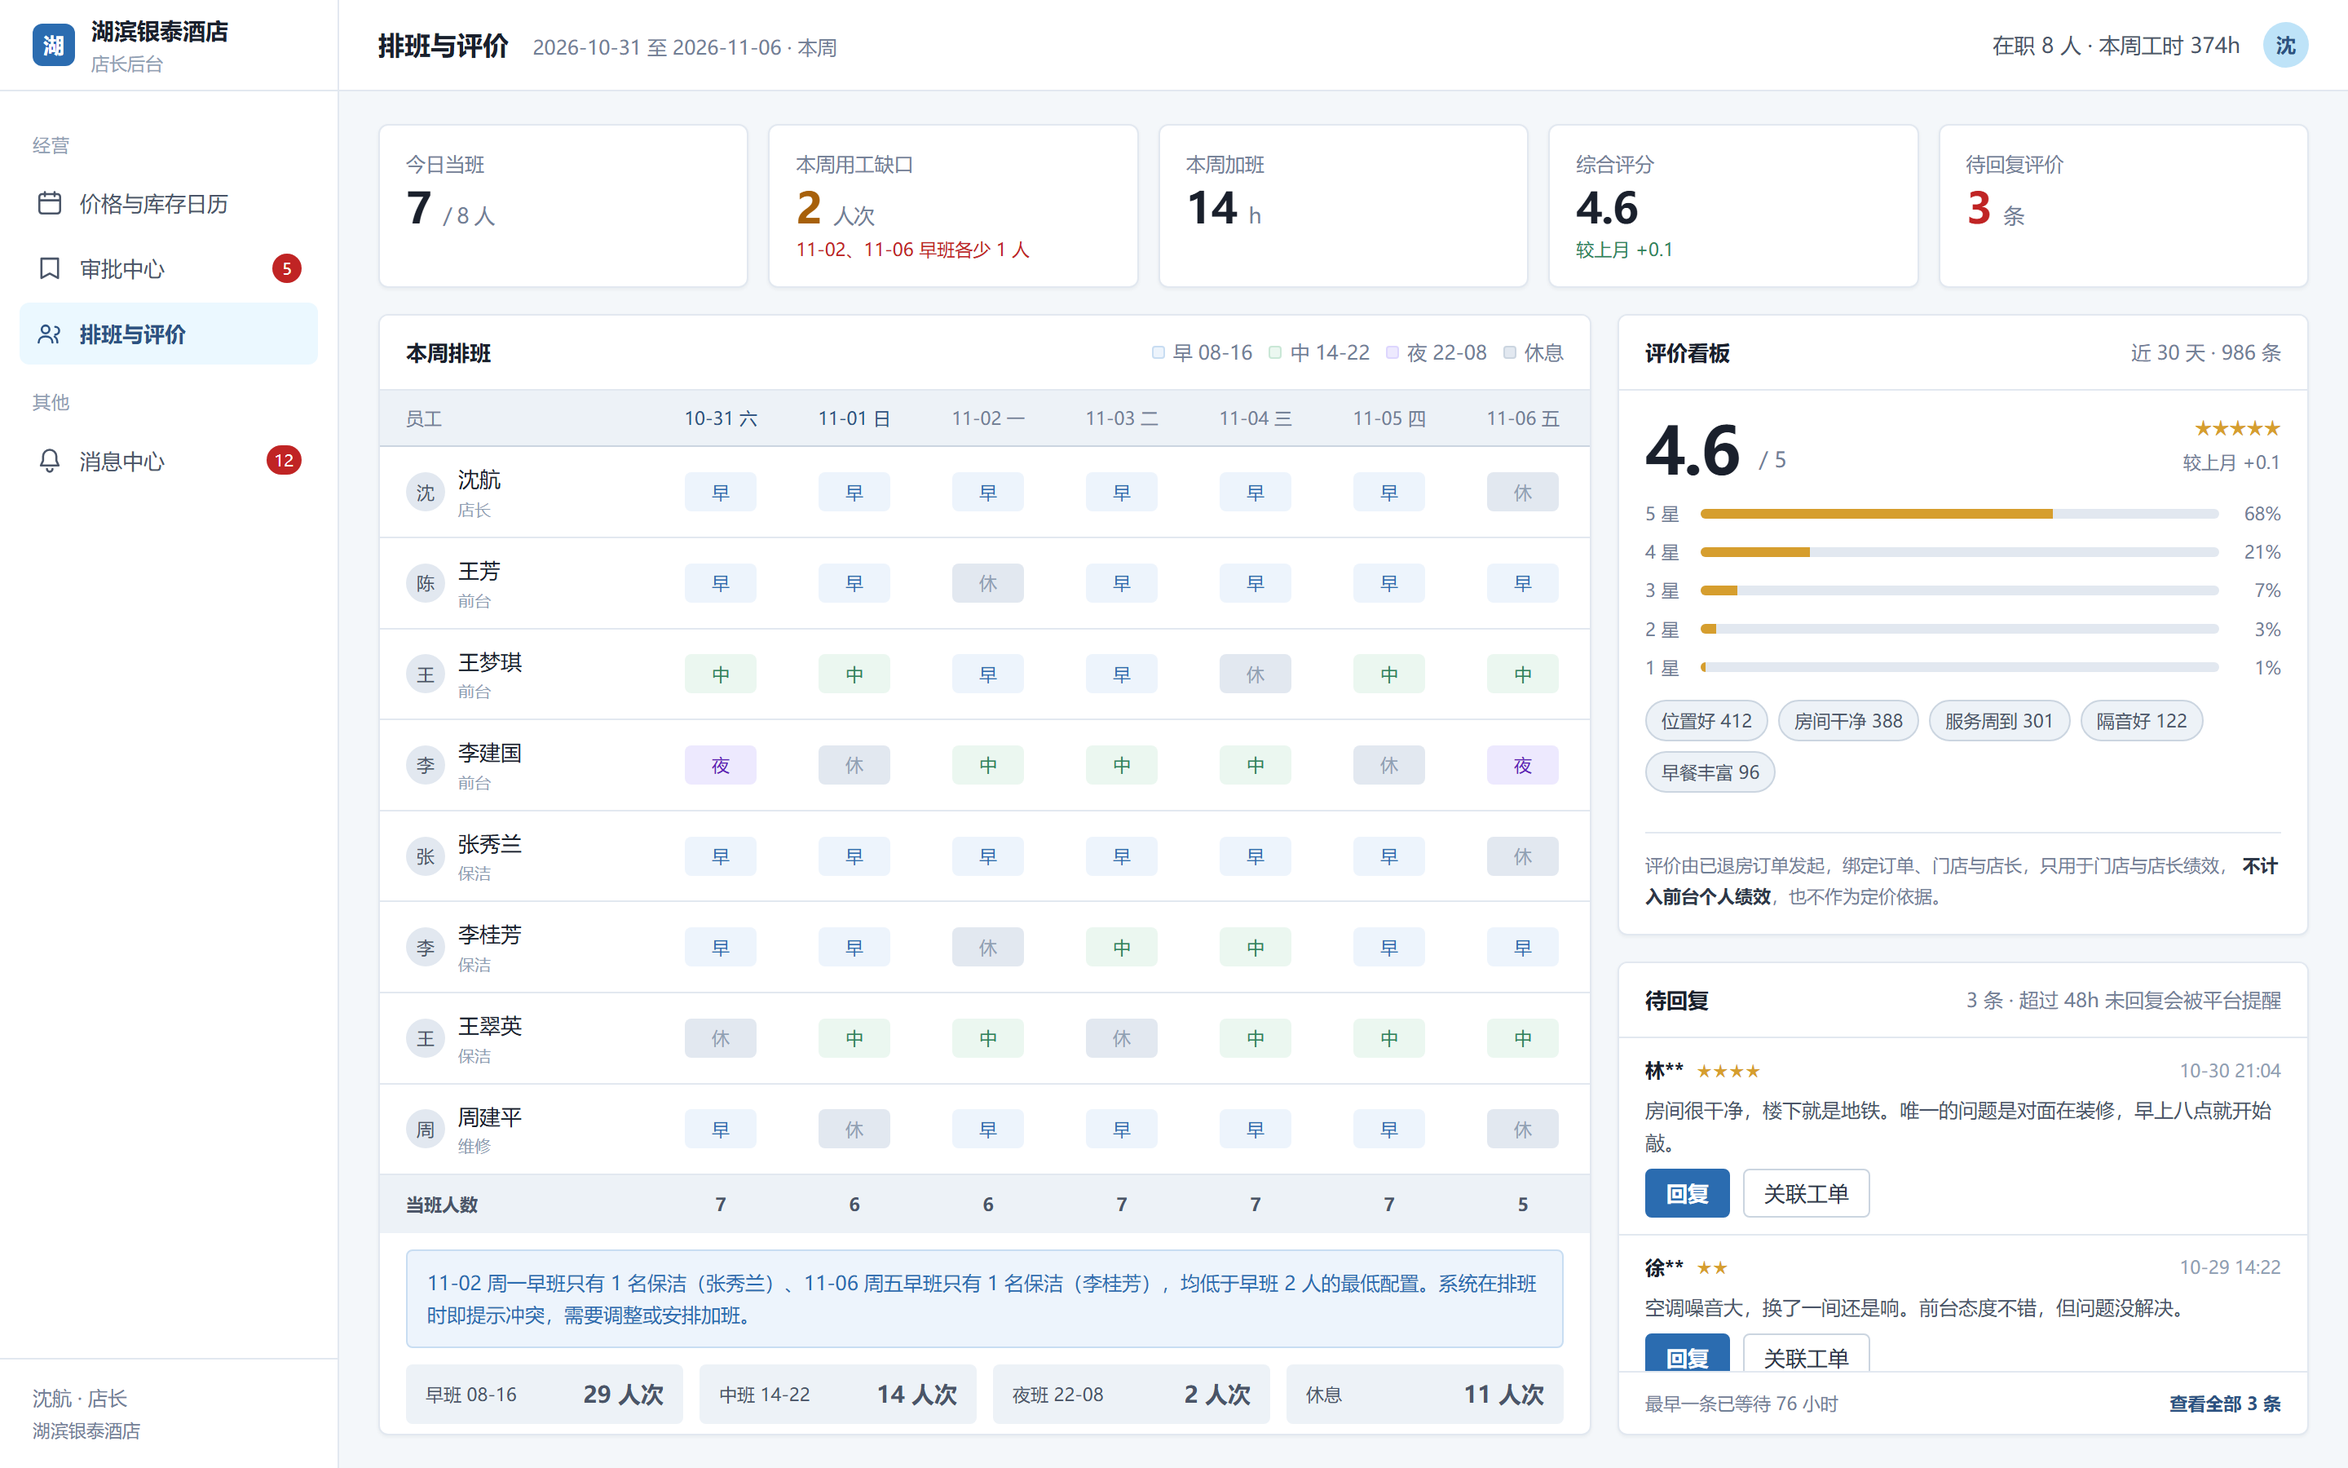
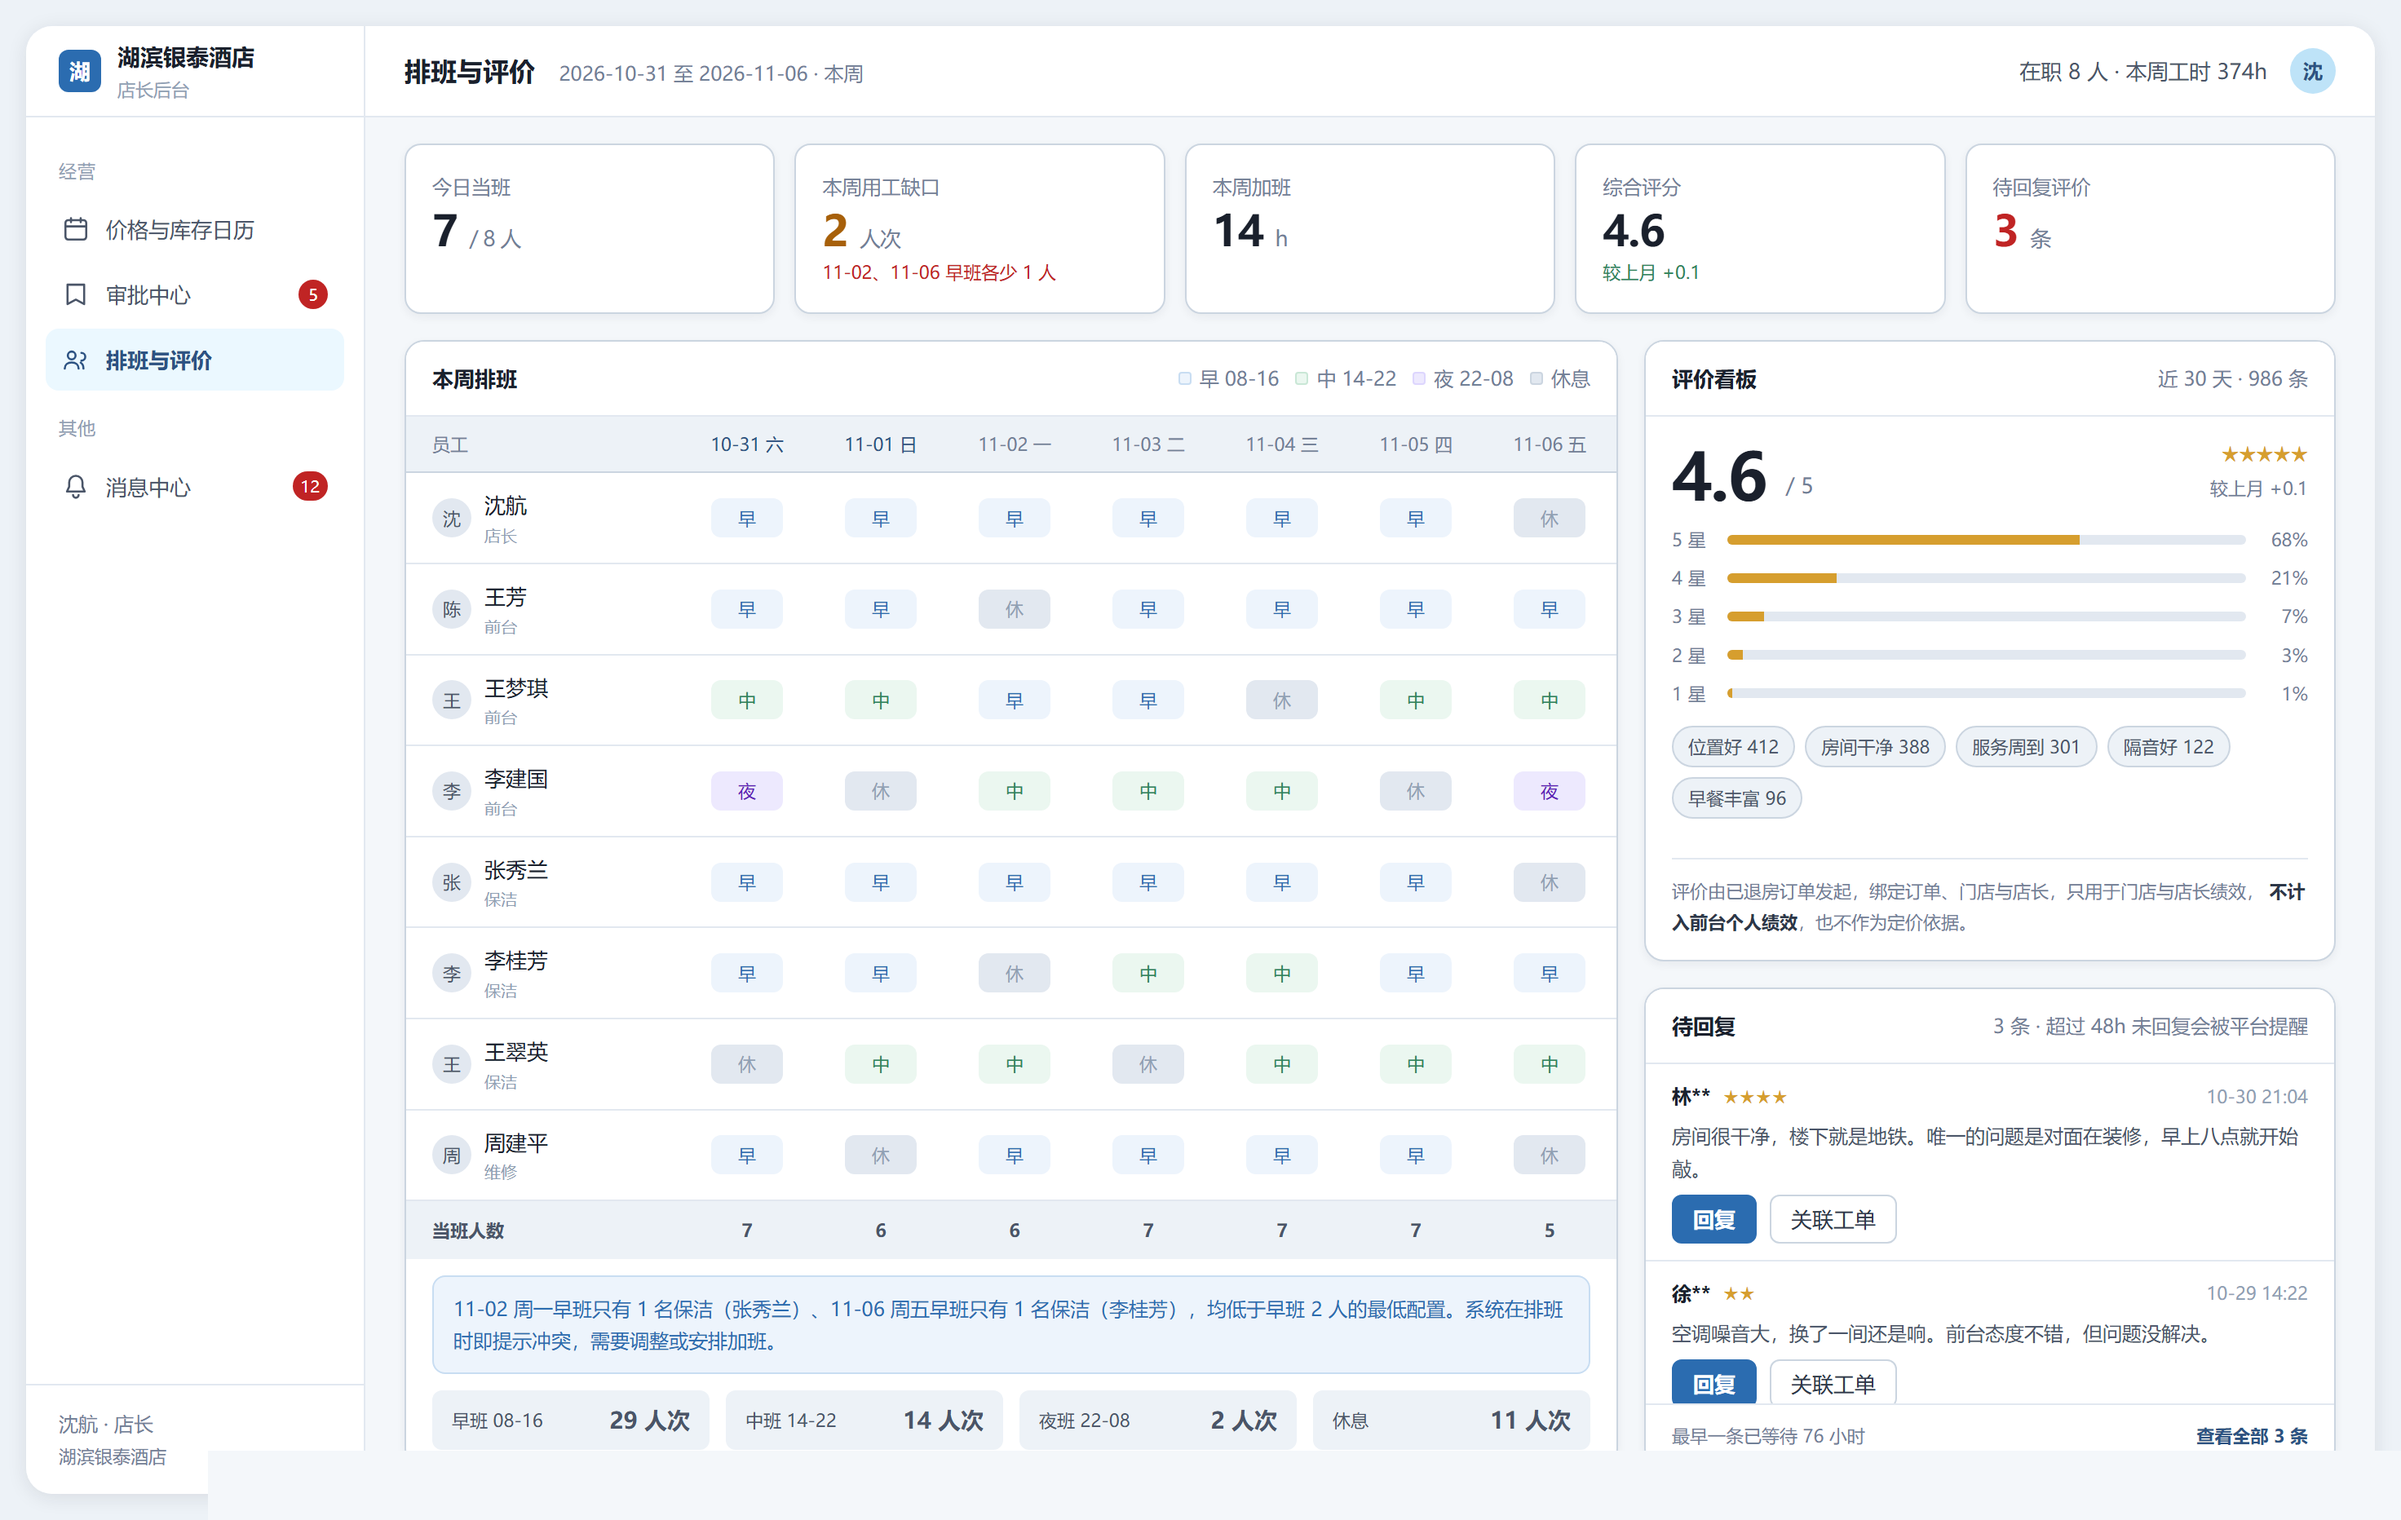
保存当前 UI 图片与界面过程材料修改

diff --git a/docs/迭代记录.md b/docs/迭代记录.md
@@ -67,7 +67,7 @@
 ## 三、出图
 
 - UML：16 张全部由 PlantUML 生成，统一 `skinparam`（白底、深灰线、单一强调色、Microsoft YaHei），`.puml` 与 `.png` 同名放在 `UML/`。
-- UI：16 屏用 HTML + CSS 写成，共享一套设计令牌，按 2 倍像素密度导出（顾客端 780×1688，后台 2880×1800）。中途放弃过 Pixso 方案——它一次吃不下 16 屏，而且会漏字段、编数字，改回代码生成之后才能用脚本批量重导。
+- UI：先用 HTML + CSS 制作 16 屏初稿，共享一套设计令牌；后来补齐 17–19 屏。尝试让 Pixso AI 一次生成整批界面时，出现漏字段、编数字的问题，因此放弃了「整批交给 Pixso AI 生成」的做法。HTML/CSS 初稿导入 Pixso 后，确实对部分界面进行了人工调整，再按 2 倍像素密度导出 PNG。这里放弃的是 Pixso AI 的整批生成方案，并非放弃 Pixso 设计工具；具体调整内容以报告第 6 章和实际设计稿为准。
 
 ---
 

diff --git a/_过程材料/UI设计规格书.md b/_过程材料/UI设计规格书.md
@@ -17,9 +17,9 @@
 | 端 | 画布（1x） | 导出 | 屏号 |
 |---|---|---|---|
 | 顾客端（移动 H5） | 390 × 844 | 2x → 780 × 1688 | 01–07 |
-| 后台端（桌面） | 1440 × 900 | 2x → 2880 × 1800 | 08–16 |
+| 后台端（桌面） | 界面 1440 × 900，四周留 16px 外框 → 1472 × 932 | 2x → 2944 × 1864 | 08–19 |
 
-文件名严格按 `01_home_search.png` … `16_price_range_staffing.png`（见 0.5）。
+文件名严格按 `01_home_search.png` … `19_store_staff.png`（见 0.5）。
 
 ### 0.2 全站红线（画错就是需求错误，不是审美问题）
 
